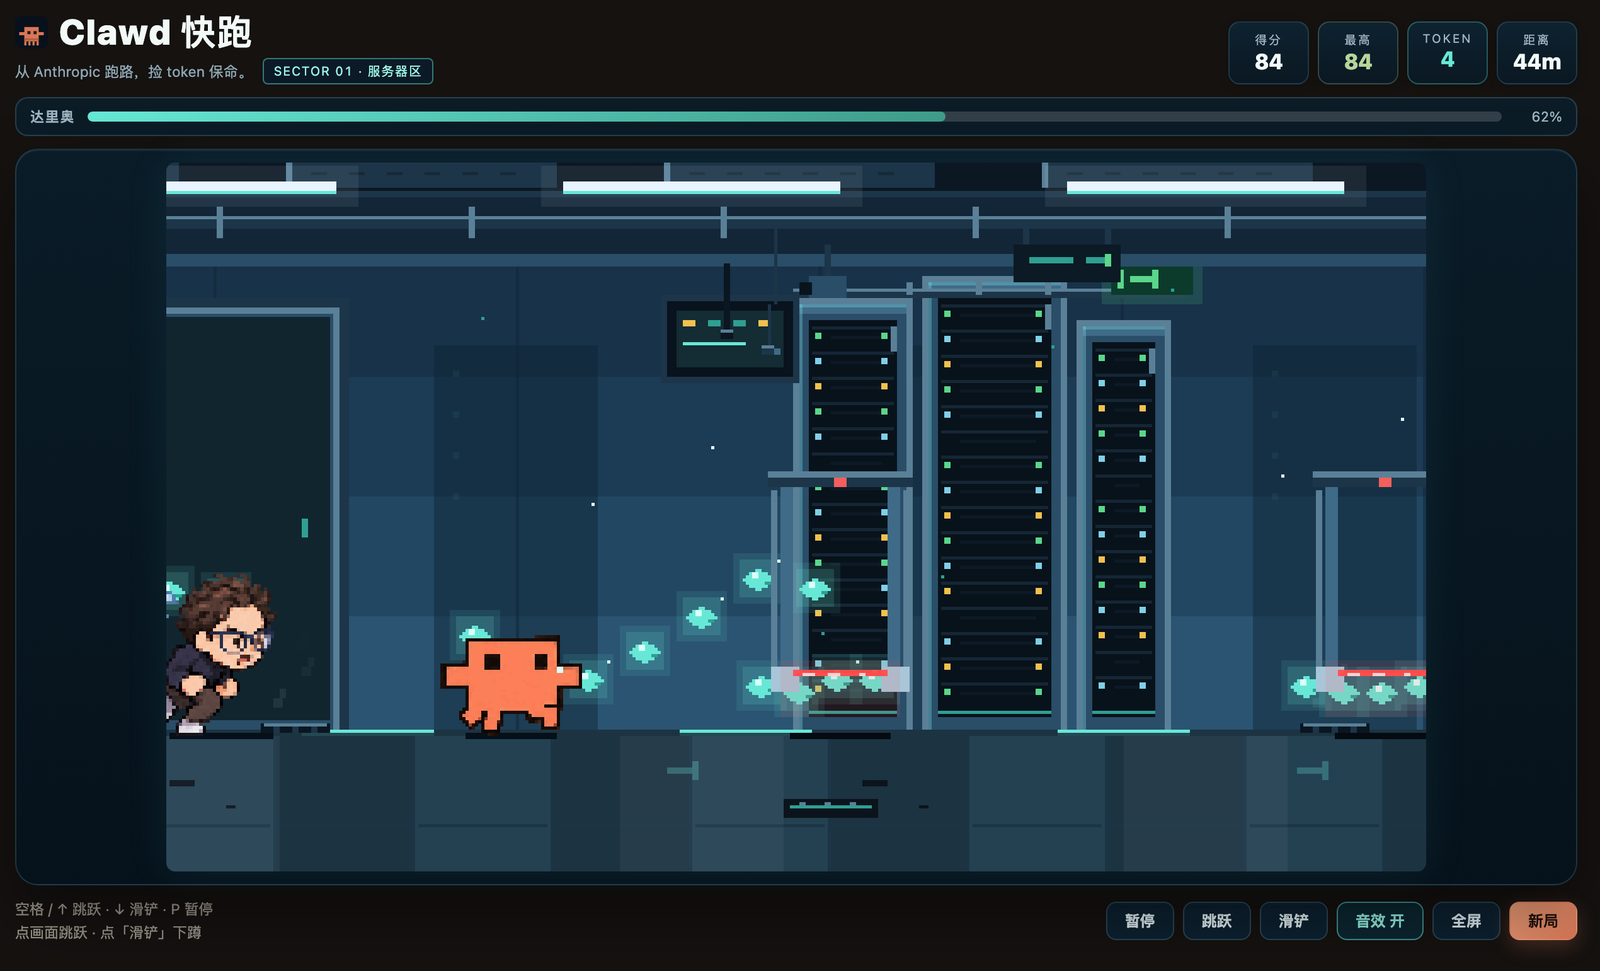
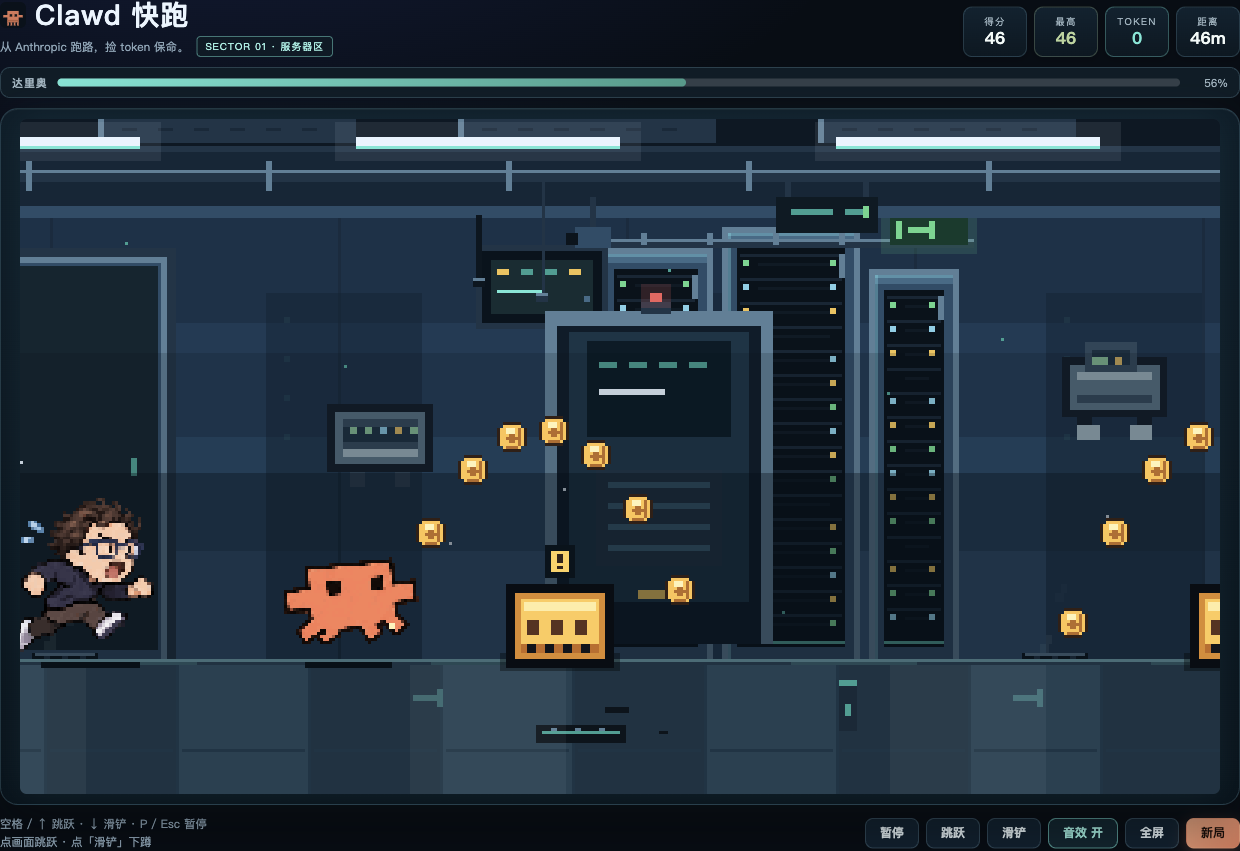
docs(clawd-run): 重录 v0.8.1 截图（浏览器 harness，真实渲染）

diff --git a/README.md b/README.md
@@ -29,15 +29,17 @@
 
 ## 长什么样
 
-> 下列截图来自 v0.7.1。v0.8.1 的新版场景需在 DSH 中重装并刷新插件查看；以下静态截图尚未重录。
-
 | 开始 | 在跑 |
 |---|---|
 | ![开始](docs/preview-ready.png) | ![在跑](docs/preview-play.png) |
 
-| 滑铲 | 被达里奥抓住了 |
+| 滑铲 | 暂停 |
 |---|---|
-| ![滑铲](docs/preview-slide.png) | ![结算](docs/preview-over.png) |
+| ![滑铲](docs/preview-slide.png) | ![暂停](docs/preview-pause.png) |
+
+| 被达里奥抓住了 |
+|---|
+| ![结算](docs/preview-over.png) |
 
 ## 玩法
 

diff --git a/docs/map-design.md b/docs/map-design.md
@@ -53,7 +53,7 @@
 4. 运行中按 P 暂停后继续，三连障碍是否保持原有间距。
 5. 加载 `dshclawd.game.v1` 的旧存档是否保持可玩。
 
-目前的 `docs/preview-*.png` 仍是前版截图；实机确认后可重新录制。
+`docs/preview-*.png` 已按 v0.8.1 重录（开始/在跑/滑铲/暂停/结算），由 Arcade 的浏览器 harness 真实渲染截图。
 
 ## v0.8.1 视觉层级约束
 
